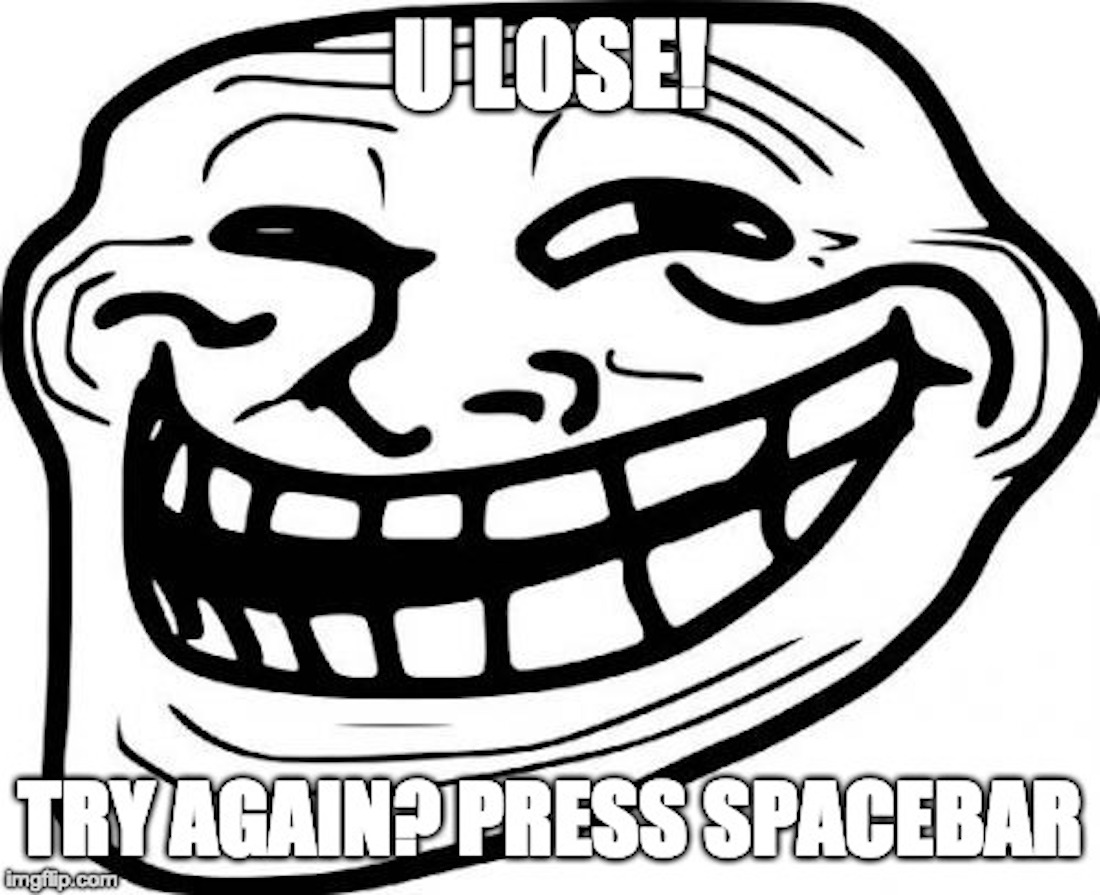
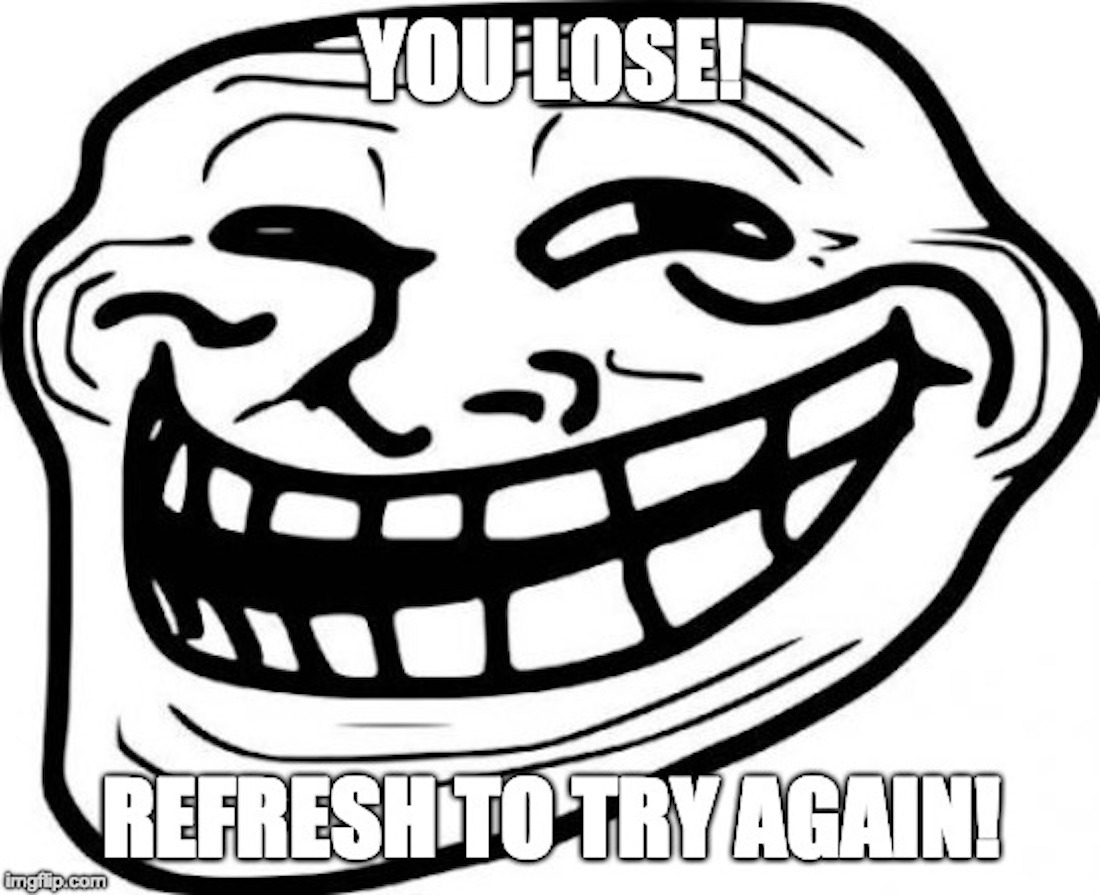
Assets/

diff --git a/Assets/JavaScript/game.js b/Assets/JavaScript/game.js
@@ -76,16 +76,57 @@ document.onkeypress = function (event) {
         numberOfGuessesLeft.textContent = numberOfLives;
         console.log(numberOfLives);
     }
+    if (numberOfLives > 0 && choosenMemeText === memeChoice) {
+        winCondition();
+    }
+    if (numberOfLives === 0) {
+        loseCondition();
+    }
+    function winCondition() {
+        var winnerImg = document.getElementById('winner-image');
+        alert('Congraulations! You win!');
+        alert('Refresh the page to play again.');
+        if (memeChoice === 0) {
+            var pepe = winnerImg.setAttribute('src', 'Assets/Images/pepefroggie.jpg');
+            winnerImg.appendChild(pepe);
+            document.body.appendChild(winnerImg);
+        }
+        else if (memeChoice === 1) {
+            var harambe = winnerImg.setAttribute('src', 'Assets/Images/d31/jpg');
+            winnerImg.appendChild(harambe);
+            document.body.appendChild(winnerImg);
+        }
+        else if (memeChoice === 2) {
+            var scumbag = winnerImg.setAttribute('src', 'Assets/Images/c5b.jpg');
+            winnerImg.appendChild(scumbag);
+            document.body.appendChild(winnerImg);
+        }
+        else if (memeChoice === 3) {
+            var brian = winnerImg.setAttribute('src', 'Assets/Images/cab.png');
+            winnerImg.appendChild(brian);
+            document.body.appendChild(winnerImg);
+        }
+        else if (memeChoice === 4) {
+            var mind = winnerImg.setAttribute('src', 'Assets/Images/0cb.jpg');
+            winnerImg.appendChild(mind);
+            document.body.appendChild(winnerImg);
+        }
+        else if (memeChoice === 5) {
+            var pedobear = winnerImg.setAttribute('src', 'Assets/Images/PedoBear.jpg');
+            winnerImg.appendChild(pedobear);
+            document.body.appendChild(winnerImg);
+        }
+        else if (memChoice === 6) {
+            var shaggy = winnerImg.setAttribute('src', 'Assets/Images/271.jpg');
+            winnerImg.appendChild(shaggy);
+            document.body.appendChild(winnerImg);
+        }
+    }
     function loseCondition() {
-        if (numberOfLives === 0) {
-            var loserImg = document.getElementById('loser-image');
-            var loserPic = loserImg.attr("src", "Assets/Images/2u2mf4.jpg");
+        var loserImg = document.getElementById('loser-image');
+        var loserPic = loserImg.setAttribute("src", "Assets/Images/2u2mf4.jpg");
             loserImg.appendChild(loserPic);
             document.body.appendChild(loserImg);
-            if (event.key === 'spacebar') {
-               location.reload;
-            }
-        }
     }
 };
 //var drinkOptions = document.getElementById('drink-options');

diff --git a/Assets/CSS/style.css b/Assets/CSS/style.css
@@ -36,10 +36,14 @@ p {
     margin-top: -5px;
 }
 .container-center {
-    border:black;
+    border:gray;
     border-style: solid;
     border-width: 2px;
     width: 25%;
     margin-left: 470px;
     margin-top: -400px;
+}
+#loser-image {
+    position: relative;
+    margin-left: 75px;
 }
